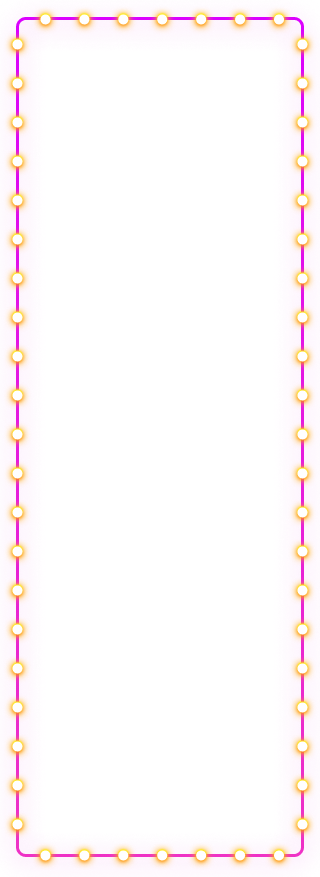
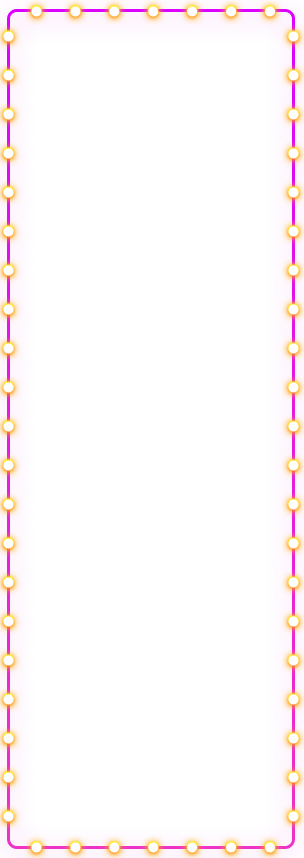
mobile adaptive

Changed region(s): [[0.0, 0.0, 1.0, 1.0]]

diff --git a/style/style.min.css b/style/style.min.css
@@ -1,1 +1,1 @@
-*,*::before,*::after{-webkit-box-sizing:border-box;box-sizing:border-box;margin:0;padding:0;position:relative;scroll-behavior:smooth}ul{list-style:none}a,a:visited{text-decoration:none;color:#fff}body{line-height:1.2;font-family:'Montserrat';font-style:normal;font-weight:400;text-rendering:optimizeLegibility;-webkit-font-smoothing:antialiased;-moz-osx-font-smoothing:grayscale;overflow-x:hidden;background-color:#141351}.container{margin:0 auto;padding:0 30px;max-width:1160px}.section{width:100%;position:relative}.btn{-webkit-appearance:none;-moz-appearance:none;appearance:none;border:none;display:block;cursor:pointer;text-align:center;display:-webkit-box;display:-ms-flexbox;display:flex;-webkit-box-align:center;-ms-flex-align:center;align-items:center;-webkit-box-pack:center;-ms-flex-pack:center;justify-content:center}.d-none{display:none !important}.no-events{pointer-events:none}.overflow-hidden{overflow:hidden}@media screen and (max-width: 425px){.container{padding:0 17px}}.baner{background:url("../img/baner-bg.jpg") no-repeat;background-position-x:center;background-size:cover;padding-bottom:60px;min-height:100vh;display:-webkit-box;display:-ms-flexbox;display:flex;-webkit-box-align:center;-ms-flex-align:center;align-items:center;padding:100px 0 40px}.baner__hero{display:-webkit-box;display:-ms-flexbox;display:flex;-webkit-box-pack:justify;-ms-flex-pack:justify;justify-content:space-between;-webkit-box-align:center;-ms-flex-align:center;align-items:center}.baner__content{margin-right:30px;z-index:2}.baner__text{font-weight:500;font-size:20px;line-height:120%;letter-spacing:0.01em;color:rgba(255,255,255,0.9);margin-bottom:20px}.baner__title{font-weight:800;font-size:90px;line-height:100%;letter-spacing:-0.01em;text-transform:uppercase;color:#FFFFFF;text-shadow:0px 1px 11px #FFA200, 0px 0px 8px #FFC000, 0px -1px 2px #FFFA00, 0px 1px 4px #FF8700;margin-bottom:20px}.baner__subtitle{font-weight:700;font-size:24px;line-height:120%;letter-spacing:0.01em;color:#FFFFFF;margin-bottom:34px}.baner::after{content:'';position:absolute;bottom:0;left:0;right:0;width:100%;height:600px;background:-webkit-gradient(linear, left top, left bottom, color-stop(37.92%, rgba(20,19,81,0)), to(#141351));background:linear-gradient(180deg, rgba(20,19,81,0) 37.92%, #141351 100%);z-index:1;pointer-events:none}@media screen and (max-width: 1300px){.baner__title{font-size:60px}.baner__subtitle{font-size:20px}.baner__text{font-size:18px}.baner__content{max-width:460px}}@media screen and (max-width: 860px){.baner__title{font-size:52px}.baner__subtitle{font-size:18px}.baner__text{font-size:16px}.baner__content{max-width:460px;margin-right:15px}}@media screen and (max-width: 760px){.baner__title{font-size:42px;margin-bottom:15px}.baner__subtitle{font-size:16px}.baner__text{font-size:14px;margin-bottom:15px}.baner__content{max-width:460px;margin-right:15px}}@media screen and (max-width: 600px){.baner{background:url("../img/baner-mobile-bg.jpg") no-repeat;background-position-x:center;background-size:100% 100%}.baner__hero{-webkit-box-orient:vertical;-webkit-box-direction:normal;-ms-flex-direction:column;flex-direction:column}.baner__title{text-align:center}.baner__subtitle{text-align:center;margin-bottom:12px}.baner__text{text-align:center}.baner__content{margin-right:0}}@media screen and (max-width: 425px){.baner__title{font-size:40px}}.prizes__title{font-weight:800;font-size:48px;line-height:110%;text-align:center;letter-spacing:-0.03em;text-transform:uppercase;color:#FFFFFF;text-shadow:0px 1px 11px #FFA200, 0px 1px 4px #FF8700;margin:0 auto;margin-bottom:60px;max-width:660px}.prizes__hero{width:100%;background:url("../img/frame-desktop.png") no-repeat;background-size:100% 100%;padding:45px 20px 0px;margin-bottom:120px}.prizes__list{display:-webkit-box;display:-ms-flexbox;display:flex;-webkit-box-align:stretch;-ms-flex-align:stretch;align-items:stretch;-webkit-box-pack:start;-ms-flex-pack:start;justify-content:flex-start;-ms-flex-wrap:wrap;flex-wrap:wrap}.prizes__item{-ms-flex-preferred-size:25%;flex-basis:25%;padding:0 10px;margin-bottom:40px}.prizes__item.today .prizes__date::before{content:'';background:-webkit-gradient(linear, left bottom, left top, from(rgba(235,0,183,0.8)), to(#DB00FF)),#C937FF;background:linear-gradient(360deg, rgba(235,0,183,0.8) 0%, #DB00FF 100%),#C937FF;-webkit-box-shadow:0px 4px 14px -1px #DA77FF;box-shadow:0px 4px 14px -1px #DA77FF;border-radius:4px 4px 0px 0px;position:absolute;top:0;left:0;right:0;height:4px}.prizes__item.active .prizes__btn{opacity:1}.prizes__item.active .prizes__img{opacity:1;-webkit-filter:grayscale(0);filter:grayscale(0)}.prizes__date{position:relative;background:-webkit-gradient(linear, left top, left bottom, color-stop(2.6%, rgba(112,42,144,0.224)), to(rgba(15,1,98,0.2905)));background:linear-gradient(180deg, rgba(112,42,144,0.224) 2.6%, rgba(15,1,98,0.2905) 100%);border:1px solid rgba(255,255,255,0.05);-webkit-backdrop-filter:blur(13.5914px);backdrop-filter:blur(13.5914px);border-radius:8px;margin-bottom:10px;color:#fff;display:-webkit-box;display:-ms-flexbox;display:flex;-webkit-box-align:center;-ms-flex-align:center;align-items:center;-webkit-box-pack:center;-ms-flex-pack:center;justify-content:center;font-weight:800;font-size:20px;line-height:120%;letter-spacing:0.01em;text-transform:uppercase;padding:24px 12px 17px}.prizes__card{padding:15px 15px 35px;background:-webkit-gradient(linear, left top, left bottom, color-stop(2.6%, rgba(112,42,144,0.224)), to(rgba(15,1,98,0.2905)));background:linear-gradient(180deg, rgba(112,42,144,0.224) 2.6%, rgba(15,1,98,0.2905) 100%);border:1px solid rgba(255,255,255,0.05);-webkit-backdrop-filter:blur(13.5914px);backdrop-filter:blur(13.5914px);border-radius:8px}.prizes__day-num{font-weight:600;font-size:12px;line-height:167%;text-align:center;color:#FFFFFF;margin-bottom:25px}.prizes__img{width:105px;margin:0 auto;display:block;margin-bottom:33px;opacity:0.4;-webkit-filter:grayscale(1);filter:grayscale(1)}.prizes__btn{background:#EB4846;border-radius:5px;padding:7.5px 12px;font-weight:700;font-size:14px;line-height:171%;display:-webkit-box;display:-ms-flexbox;display:flex;-webkit-box-align:center;-ms-flex-align:center;align-items:center;text-align:center;letter-spacing:0.01em;color:#FFFFFF;margin:0 auto;-webkit-transition:background .3s ease;transition:background .3s ease;opacity:0.4;width:154px}.prizes__btn:hover{background:#e51b19}.terms{max-width:730px;margin-bottom:100px}.terms__title{font-weight:700;font-size:24px;line-height:140%;color:#fff;margin-bottom:20px}.terms__text{font-weight:400;font-size:16px;line-height:140%;text-align:justify;color:rgba(255,255,255,0.75)}.terms__list{padding-left:22px;margin-top:20px}.terms__item{color:rgba(255,255,255,0.75);margin-bottom:16px}.terms__item::before{content:'';position:absolute;width:2px;height:2px;background:rgba(255,255,255,0.75);top:8px;left:-12px;border-radius:50%}@media screen and (max-width: 960px){.prizes__item{-ms-flex-preferred-size:33%;flex-basis:33%}}@media screen and (max-width: 860px){.prizes__title{font-size:42px;max-width:590px}}@media screen and (max-width: 768px){.prizes__item{-ms-flex-preferred-size:50%;flex-basis:50%}.prizes__hero{margin-bottom:100px}}@media screen and (max-width: 600px){.prizes__hero{margin-bottom:80px}.prizes__item{-ms-flex-preferred-size:50%;flex-basis:50%;padding:0 4px;margin-bottom:16px}.prizes__day-num{margin-bottom:10px}.prizes__img{width:80px;margin-bottom:24px}.prizes__card{padding:12px}.prizes__title{font-size:36px;max-width:500px;margin-bottom:40px}.terms__text{font-size:14px}.terms__title{font-size:20px}.terms__list{margin-top:16px}.terms__item{margin-bottom:12px}}@media screen and (max-width: 480px){.prizes__hero{padding:32px 12px 0px}.prizes__date{padding:10px;font-size:14px;margin-bottom:5px}.prizes__btn{font-size:10px;width:100%}}@media screen and (max-width: 425px){.prizes__img{width:58px;margin-bottom:14px}.prizes__card{padding:10px}.prizes__title{font-size:30px;margin-bottom:30px}.prizes__hero{margin-bottom:60px}}.spinner{position:relative;min-width:560px;height:560px;display:-webkit-box;display:-ms-flexbox;display:flex;-webkit-box-pack:center;-ms-flex-pack:center;justify-content:center;-webkit-box-align:center;-ms-flex-align:center;align-items:center;z-index:2}.spinner__bg{position:absolute;width:100%;height:100%}.spinner__hero{width:465px;height:465px;-webkit-transition:-webkit-transform 2s ease-in-out 0s;transition:-webkit-transform 2s ease-in-out 0s;transition:transform 2s ease-in-out 0s;transition:transform 2s ease-in-out 0s, -webkit-transform 2s ease-in-out 0s;-webkit-transform:rotate(0deg);transform:rotate(0deg);cursor:pointer}.spinner__pointer{position:absolute;top:21px;left:50%;-webkit-transform:translate(-40%, 0);transform:translate(-40%, 0);width:55px}.spinner__btn-wrap{position:absolute;top:50%;left:50%;-webkit-transform:translate(-50%, -50%);transform:translate(-50%, -50%)}.spinner__btn{background:url("../img/wheel/btn.png") no-repeat;background-size:100% 100%;width:96px;height:96px;border-radius:50%}#spinner.spinning .spinner__hero{-webkit-transform:rotate(60deg);transform:rotate(60deg)}@media screen and (max-width: 1300px){.spinner{width:400px;min-width:400px;height:400px}.spinner__hero{width:335px;height:335px}.spinner__btn{width:76px;height:76px}.spinner__pointer{width:45px;top:13px}}@media screen and (max-width: 860px){.spinner{width:360px;min-width:360px;height:360px}.spinner__hero{width:300px;height:300px}.spinner__btn{width:76px;height:76px}.spinner__pointer{width:36px}}@media screen and (max-width: 760px){.spinner{width:300px;min-width:300px;height:300px}.spinner__hero{width:250px;height:250px}.spinner__btn{width:50px;height:50px}.spinner__pointer{width:26px}}@media screen and (max-width: 650px){.spinner{width:260px;min-width:260px;height:260px}.spinner__hero{width:215px;height:215px}.spinner__btn{width:50px;height:50px}.spinner__pointer{width:26px;top:9px}}@media screen and (max-width: 600px){.spinner{width:285px;min-width:285px;height:285px}.spinner__hero{width:237px;height:237px}.spinner__btn{width:60px;height:60px}.spinner__pointer{width:26px;top:9px}}.select{position:relative;cursor:pointer;display:-webkit-box;display:-ms-flexbox;display:flex;-webkit-box-align:center;-ms-flex-align:center;align-items:center;-webkit-box-pack:center;-ms-flex-pack:center;justify-content:center;background:rgba(247,243,255,0.1);border:1px solid rgba(255,255,255,0.1);-webkit-backdrop-filter:blur(15px);backdrop-filter:blur(15px);border-radius:5px;padding:8px 16px;max-width:230px;z-index:5}.select__val{color:#fff;font-weight:700;font-size:14px;line-height:171%;letter-spacing:0.01em;text-align:center}.select__icon{margin-left:12px;-webkit-transform:rotate(0deg);transform:rotate(0deg);-webkit-transition:-webkit-transform .3s ease;transition:-webkit-transform .3s ease;transition:transform .3s ease;transition:transform .3s ease, -webkit-transform .3s ease}.select__list{position:absolute;top:105%;left:0;right:0;border-radius:5px;background:rgba(247,243,255,0.1);border:1px solid rgba(255,255,255,0.1);-webkit-backdrop-filter:blur(15px);backdrop-filter:blur(15px);z-index:2;-webkit-transform:translateY(-5px);transform:translateY(-5px);opacity:0;pointer-events:none;-webkit-transition:opacity .3s ease, -webkit-transform .3s ease;transition:opacity .3s ease, -webkit-transform .3s ease;transition:opacity .3s ease, transform .3s ease;transition:opacity .3s ease, transform .3s ease, -webkit-transform .3s ease}.select__list li{padding:8px 5px 8px 14px;cursor:pointer;color:#fff;-webkit-transition:color .2s ease;transition:color .2s ease}.select__list li:hover{color:#fff}.select.opened .select__list{-webkit-transform:translateY(0px);transform:translateY(0px);opacity:1;pointer-events:all}.select.opened .select__icon{-webkit-transform:rotate(180deg);transform:rotate(180deg)}.select-mobile{display:none}@media screen and (max-width: 600px){.select-desctop{display:none}.select-mobile{display:-webkit-box;display:-ms-flexbox;display:flex;z-index:2;margin-top:12px}}.modal{position:fixed;top:0;bottom:0;left:0;right:0;background:rgba(5,0,20,0.5);-webkit-backdrop-filter:blur(2px);backdrop-filter:blur(2px);z-index:100;display:none;opacity:0;-webkit-transition:opacity .3s ease;transition:opacity .3s ease;padding:30px;overflow-x:hidden}.modal.displayed{display:block}.modal.visible{opacity:1}.modal__container{min-height:100%;max-width:785px;display:-webkit-box;display:-ms-flexbox;display:flex;-webkit-box-pack:center;-ms-flex-pack:center;justify-content:center;-webkit-box-align:center;-ms-flex-align:center;align-items:center;margin:0 auto;position:relative}.modal__hero{width:100%;height:420px;padding:40px 55px;display:-webkit-box;display:-ms-flexbox;display:flex;-webkit-box-orient:vertical;-webkit-box-direction:normal;-ms-flex-direction:column;flex-direction:column;-webkit-box-pack:start;-ms-flex-pack:start;justify-content:flex-start;position:relative}.modal__hero::after{content:'';position:absolute;pointer-events:none;width:100%;height:100%;background:url("../img/wheel-popup-desktop.png") no-repeat;background-size:100% 100%;top:0;left:0}.modal__hero.prizes::after{background:url("../img/popup-desktop.png") no-repeat;background-size:100% 100%}.modal__content{background:rgba(16,13,63,0.5);-webkit-backdrop-filter:blur(22px);backdrop-filter:blur(22px);border-radius:28px;height:100%;width:100%;display:-webkit-box;display:-ms-flexbox;display:flex;-webkit-box-orient:vertical;-webkit-box-direction:normal;-ms-flex-direction:column;flex-direction:column;-webkit-box-align:center;-ms-flex-align:center;align-items:center;-webkit-box-pack:center;-ms-flex-pack:center;justify-content:center}.modal__close{position:absolute;right:30px;top:0;cursor:pointer}.modal__close path{-webkit-transition:all .2s ease;transition:all .2s ease}.modal__close:hover path{stroke-opacity:1}.modal__head-text{font-weight:600;font-size:16px;line-height:120%;text-align:center;color:#FFFFFF;margin-bottom:5px}.modal__big-title{font-weight:800;font-size:34px;line-height:120%;text-align:center;letter-spacing:-0.03em;color:#FFFFFF;text-shadow:0px 1px 12px #FFA200;margin-bottom:70px;max-width:412px}.modal__title{font-weight:800;font-size:24px;line-height:120%;text-align:center;letter-spacing:-0.03em;color:#FFFFFF;text-shadow:0px 1px 12px #FFA200;margin-bottom:30px}.modal__descr{font-weight:500;font-size:20px;line-height:140%;text-align:center;letter-spacing:0.01em;color:#FFFFFF;margin-bottom:40px;max-width:465px}.modal__btn{display:-webkit-box;display:-ms-flexbox;display:flex;-webkit-box-pack:center;-ms-flex-pack:center;justify-content:center;-webkit-box-align:center;-ms-flex-align:center;align-items:center;padding:7px 39px 8px;min-width:128px;background:#EB4846;border-radius:5px;font-weight:700;font-size:14px;line-height:171%;letter-spacing:0.01em;color:#FFFFFF;-webkit-transition:background .3s ease;transition:background .3s ease}.modal__btn:hover{background:#e51b19}
+*,*::before,*::after{-webkit-box-sizing:border-box;box-sizing:border-box;margin:0;padding:0;position:relative;scroll-behavior:smooth}ul{list-style:none}a,a:visited{text-decoration:none;color:#fff}body{line-height:1.2;font-family:'Montserrat';font-style:normal;font-weight:400;text-rendering:optimizeLegibility;-webkit-font-smoothing:antialiased;-moz-osx-font-smoothing:grayscale;overflow-x:hidden;background-color:#141351}.container{margin:0 auto;padding:0 30px;max-width:1160px}.section{width:100%;position:relative}.btn{-webkit-appearance:none;-moz-appearance:none;appearance:none;border:none;display:block;cursor:pointer;text-align:center;display:-webkit-box;display:-ms-flexbox;display:flex;-webkit-box-align:center;-ms-flex-align:center;align-items:center;-webkit-box-pack:center;-ms-flex-pack:center;justify-content:center}.d-none{display:none !important}.no-events{pointer-events:none}.overflow-hidden{overflow:hidden}@media screen and (max-width: 425px){.container{padding:0 17px}}.baner{background:url("../img/baner-bg.jpg") no-repeat;background-position-x:center;background-size:cover;padding-bottom:60px;min-height:100vh;display:-webkit-box;display:-ms-flexbox;display:flex;-webkit-box-align:center;-ms-flex-align:center;align-items:center;padding:100px 0 40px}.baner__hero{display:-webkit-box;display:-ms-flexbox;display:flex;-webkit-box-pack:justify;-ms-flex-pack:justify;justify-content:space-between;-webkit-box-align:center;-ms-flex-align:center;align-items:center}.baner__content{margin-right:30px;z-index:2}.baner__text{font-weight:500;font-size:20px;line-height:120%;letter-spacing:0.01em;color:rgba(255,255,255,0.9);margin-bottom:20px}.baner__title{font-weight:800;font-size:90px;line-height:100%;letter-spacing:-0.01em;text-transform:uppercase;color:#FFFFFF;text-shadow:0px 1px 11px #FFA200, 0px 0px 8px #FFC000, 0px -1px 2px #FFFA00, 0px 1px 4px #FF8700;margin-bottom:20px}.baner__subtitle{font-weight:700;font-size:24px;line-height:120%;letter-spacing:0.01em;color:#FFFFFF;margin-bottom:34px}.baner::after{content:'';position:absolute;bottom:0;left:0;right:0;width:100%;height:600px;background:-webkit-gradient(linear, left top, left bottom, color-stop(37.92%, rgba(20,19,81,0)), to(#141351));background:linear-gradient(180deg, rgba(20,19,81,0) 37.92%, #141351 100%);z-index:1;pointer-events:none}@media screen and (max-width: 1300px){.baner__title{font-size:60px}.baner__subtitle{font-size:20px}.baner__text{font-size:18px}.baner__content{max-width:460px}}@media screen and (max-width: 860px){.baner__title{font-size:52px}.baner__subtitle{font-size:18px}.baner__text{font-size:16px}.baner__content{max-width:460px;margin-right:15px}}@media screen and (max-width: 760px){.baner__title{font-size:42px;margin-bottom:15px}.baner__subtitle{font-size:16px}.baner__text{font-size:14px;margin-bottom:15px}.baner__content{max-width:460px;margin-right:15px}}@media screen and (max-width: 600px){.baner{background:url("../img/baner-mobile-bg.jpg") no-repeat;background-position-x:center;background-size:100% 100%}.baner__hero{-webkit-box-orient:vertical;-webkit-box-direction:normal;-ms-flex-direction:column;flex-direction:column}.baner__title{text-align:center}.baner__subtitle{text-align:center;margin-bottom:12px}.baner__text{text-align:center}.baner__content{margin-right:0}}@media screen and (max-width: 425px){.baner__title{font-size:40px}}.prizes__title{font-weight:800;font-size:48px;line-height:110%;text-align:center;letter-spacing:-0.03em;text-transform:uppercase;color:#FFFFFF;text-shadow:0px 1px 11px #FFA200, 0px 1px 4px #FF8700;margin:0 auto;margin-bottom:60px;max-width:660px}.prizes__hero{width:100%;background:url("../img/frame-desktop.png") no-repeat;background-size:100% 100%;padding:45px 20px 0px;margin-bottom:120px}.prizes__list{display:-webkit-box;display:-ms-flexbox;display:flex;-webkit-box-align:stretch;-ms-flex-align:stretch;align-items:stretch;-webkit-box-pack:start;-ms-flex-pack:start;justify-content:flex-start;-ms-flex-wrap:wrap;flex-wrap:wrap}.prizes__item{-ms-flex-preferred-size:25%;flex-basis:25%;padding:0 10px;margin-bottom:40px}.prizes__item.today .prizes__date::before{content:'';background:-webkit-gradient(linear, left bottom, left top, from(rgba(235,0,183,0.8)), to(#DB00FF)),#C937FF;background:linear-gradient(360deg, rgba(235,0,183,0.8) 0%, #DB00FF 100%),#C937FF;-webkit-box-shadow:0px 4px 14px -1px #DA77FF;box-shadow:0px 4px 14px -1px #DA77FF;border-radius:4px 4px 0px 0px;position:absolute;top:0;left:0;right:0;height:4px}.prizes__item.active .prizes__btn{opacity:1}.prizes__item.active .prizes__img{opacity:1;-webkit-filter:grayscale(0);filter:grayscale(0)}.prizes__date{position:relative;background:-webkit-gradient(linear, left top, left bottom, color-stop(2.6%, rgba(112,42,144,0.224)), to(rgba(15,1,98,0.2905)));background:linear-gradient(180deg, rgba(112,42,144,0.224) 2.6%, rgba(15,1,98,0.2905) 100%);border:1px solid rgba(255,255,255,0.05);-webkit-backdrop-filter:blur(13.5914px);backdrop-filter:blur(13.5914px);border-radius:8px;margin-bottom:10px;color:#fff;display:-webkit-box;display:-ms-flexbox;display:flex;-webkit-box-align:center;-ms-flex-align:center;align-items:center;-webkit-box-pack:center;-ms-flex-pack:center;justify-content:center;font-weight:800;font-size:20px;line-height:120%;letter-spacing:0.01em;text-transform:uppercase;padding:24px 12px 17px}.prizes__card{padding:15px 15px 35px;background:-webkit-gradient(linear, left top, left bottom, color-stop(2.6%, rgba(112,42,144,0.224)), to(rgba(15,1,98,0.2905)));background:linear-gradient(180deg, rgba(112,42,144,0.224) 2.6%, rgba(15,1,98,0.2905) 100%);border:1px solid rgba(255,255,255,0.05);-webkit-backdrop-filter:blur(13.5914px);backdrop-filter:blur(13.5914px);border-radius:8px}.prizes__day-num{font-weight:600;font-size:12px;line-height:167%;text-align:center;color:#FFFFFF;margin-bottom:25px}.prizes__img{width:105px;margin:0 auto;display:block;margin-bottom:33px;opacity:0.4;-webkit-filter:grayscale(1);filter:grayscale(1)}.prizes__btn{background:#EB4846;border-radius:5px;padding:7.5px 12px;font-weight:700;font-size:14px;line-height:171%;display:-webkit-box;display:-ms-flexbox;display:flex;-webkit-box-align:center;-ms-flex-align:center;align-items:center;text-align:center;letter-spacing:0.01em;color:#FFFFFF;margin:0 auto;-webkit-transition:background .3s ease;transition:background .3s ease;opacity:0.4;width:154px}.prizes__btn:hover{background:#e51b19}.terms{max-width:730px;margin-bottom:100px}.terms__title{font-weight:700;font-size:24px;line-height:140%;color:#fff;margin-bottom:20px}.terms__text{font-weight:400;font-size:16px;line-height:140%;text-align:justify;color:rgba(255,255,255,0.75)}.terms__list{padding-left:22px;margin-top:20px}.terms__item{color:rgba(255,255,255,0.75);margin-bottom:16px}.terms__item::before{content:'';position:absolute;width:2px;height:2px;background:rgba(255,255,255,0.75);top:8px;left:-12px;border-radius:50%}@media screen and (max-width: 960px){.prizes__item{-ms-flex-preferred-size:33%;flex-basis:33%}}@media screen and (max-width: 860px){.prizes__title{font-size:42px;max-width:590px}}@media screen and (max-width: 768px){.prizes__item{-ms-flex-preferred-size:50%;flex-basis:50%}.prizes__hero{margin-bottom:100px;background:url("../img/frame-mobile.png") no-repeat;background-size:100% 100%}}@media screen and (max-width: 600px){.prizes__hero{margin-bottom:80px}.prizes__item{-ms-flex-preferred-size:50%;flex-basis:50%;padding:0 4px;margin-bottom:16px}.prizes__day-num{margin-bottom:10px}.prizes__img{width:80px;margin-bottom:24px}.prizes__card{padding:12px}.prizes__title{font-size:36px;max-width:500px;margin-bottom:40px}.terms__text{font-size:14px}.terms__title{font-size:20px}.terms__list{margin-top:16px}.terms__item{margin-bottom:12px}}@media screen and (max-width: 480px){.prizes__hero{padding:32px 12px 0px}.prizes__date{padding:10px;font-size:14px;margin-bottom:5px}.prizes__btn{font-size:10px;width:100%}}@media screen and (max-width: 425px){.prizes__img{width:58px;margin-bottom:14px}.prizes__card{padding:10px}.prizes__title{font-size:30px;margin-bottom:30px}.prizes__hero{margin-bottom:60px}}.spinner{position:relative;min-width:560px;height:560px;display:-webkit-box;display:-ms-flexbox;display:flex;-webkit-box-pack:center;-ms-flex-pack:center;justify-content:center;-webkit-box-align:center;-ms-flex-align:center;align-items:center;z-index:2}.spinner__bg{position:absolute;width:100%;height:100%}.spinner__hero{width:465px;height:465px;-webkit-transition:-webkit-transform 2s ease-in-out 0s;transition:-webkit-transform 2s ease-in-out 0s;transition:transform 2s ease-in-out 0s;transition:transform 2s ease-in-out 0s, -webkit-transform 2s ease-in-out 0s;-webkit-transform:rotate(0deg);transform:rotate(0deg);cursor:pointer}.spinner__pointer{position:absolute;top:21px;left:50%;-webkit-transform:translate(-40%, 0);transform:translate(-40%, 0);width:55px}.spinner__btn-wrap{position:absolute;top:50%;left:50%;-webkit-transform:translate(-50%, -50%);transform:translate(-50%, -50%)}.spinner__btn{background:url("../img/wheel/btn.png") no-repeat;background-size:100% 100%;width:96px;height:96px;border-radius:50%}#spinner.spinning .spinner__hero{-webkit-transform:rotate(60deg);transform:rotate(60deg)}@media screen and (max-width: 1300px){.spinner{width:400px;min-width:400px;height:400px}.spinner__hero{width:335px;height:335px}.spinner__btn{width:76px;height:76px}.spinner__pointer{width:45px;top:13px}}@media screen and (max-width: 860px){.spinner{width:360px;min-width:360px;height:360px}.spinner__hero{width:300px;height:300px}.spinner__btn{width:76px;height:76px}.spinner__pointer{width:36px}}@media screen and (max-width: 760px){.spinner{width:300px;min-width:300px;height:300px}.spinner__hero{width:250px;height:250px}.spinner__btn{width:50px;height:50px}.spinner__pointer{width:26px}}@media screen and (max-width: 650px){.spinner{width:260px;min-width:260px;height:260px}.spinner__hero{width:215px;height:215px}.spinner__btn{width:50px;height:50px}.spinner__pointer{width:26px;top:9px}}@media screen and (max-width: 600px){.spinner{width:285px;min-width:285px;height:285px}.spinner__hero{width:237px;height:237px}.spinner__btn{width:60px;height:60px}.spinner__pointer{width:26px;top:9px}}.select{position:relative;cursor:pointer;display:-webkit-box;display:-ms-flexbox;display:flex;-webkit-box-align:center;-ms-flex-align:center;align-items:center;-webkit-box-pack:center;-ms-flex-pack:center;justify-content:center;background:rgba(247,243,255,0.1);border:1px solid rgba(255,255,255,0.1);-webkit-backdrop-filter:blur(15px);backdrop-filter:blur(15px);border-radius:5px;padding:8px 16px;max-width:230px;z-index:5}.select__val{color:#fff;font-weight:700;font-size:14px;line-height:171%;letter-spacing:0.01em;text-align:center}.select__icon{margin-left:12px;-webkit-transform:rotate(0deg);transform:rotate(0deg);-webkit-transition:-webkit-transform .3s ease;transition:-webkit-transform .3s ease;transition:transform .3s ease;transition:transform .3s ease, -webkit-transform .3s ease}.select__list{position:absolute;top:105%;left:0;right:0;border-radius:5px;background:rgba(247,243,255,0.1);border:1px solid rgba(255,255,255,0.1);-webkit-backdrop-filter:blur(15px);backdrop-filter:blur(15px);z-index:2;-webkit-transform:translateY(-5px);transform:translateY(-5px);opacity:0;pointer-events:none;-webkit-transition:opacity .3s ease, -webkit-transform .3s ease;transition:opacity .3s ease, -webkit-transform .3s ease;transition:opacity .3s ease, transform .3s ease;transition:opacity .3s ease, transform .3s ease, -webkit-transform .3s ease}.select__list li{padding:8px 5px 8px 14px;cursor:pointer;color:#fff;-webkit-transition:color .2s ease;transition:color .2s ease}.select__list li:hover{color:#fff}.select.opened .select__list{-webkit-transform:translateY(0px);transform:translateY(0px);opacity:1;pointer-events:all}.select.opened .select__icon{-webkit-transform:rotate(180deg);transform:rotate(180deg)}.select-mobile{display:none}@media screen and (max-width: 600px){.select-desctop{display:none}.select-mobile{display:-webkit-box;display:-ms-flexbox;display:flex;z-index:2;margin-top:12px}}.modal{position:fixed;top:0;bottom:0;left:0;right:0;background:rgba(5,0,20,0.5);-webkit-backdrop-filter:blur(2px);backdrop-filter:blur(2px);z-index:100;display:none;opacity:0;-webkit-transition:opacity .3s ease;transition:opacity .3s ease;padding:30px 0;overflow-x:hidden}.modal.displayed{display:block}.modal.visible{opacity:1}.modal__container{min-height:100%;max-width:785px;display:-webkit-box;display:-ms-flexbox;display:flex;-webkit-box-pack:center;-ms-flex-pack:center;justify-content:center;-webkit-box-align:center;-ms-flex-align:center;align-items:center;margin:0 auto;position:relative}.modal__hero{width:100%;height:420px;padding:40px 55px;display:-webkit-box;display:-ms-flexbox;display:flex;-webkit-box-orient:vertical;-webkit-box-direction:normal;-ms-flex-direction:column;flex-direction:column;-webkit-box-pack:start;-ms-flex-pack:start;justify-content:flex-start;position:relative}.modal__hero::after{content:'';position:absolute;pointer-events:none;width:100%;height:100%;background:url("../img/wheel-popup-desktop.png") no-repeat;background-size:100% 100%;top:0;left:0}.modal__hero.prizes::after{background:url("../img/popup-desktop.png") no-repeat;background-size:100% 100%}.modal__content{background:rgba(16,13,63,0.5);-webkit-backdrop-filter:blur(22px);backdrop-filter:blur(22px);border-radius:28px;height:100%;width:100%;display:-webkit-box;display:-ms-flexbox;display:flex;-webkit-box-orient:vertical;-webkit-box-direction:normal;-ms-flex-direction:column;flex-direction:column;-webkit-box-align:center;-ms-flex-align:center;align-items:center;-webkit-box-pack:center;-ms-flex-pack:center;justify-content:center;padding:0 24px}.modal__close{position:absolute;right:30px;top:0;cursor:pointer}.modal__close path{-webkit-transition:all .2s ease;transition:all .2s ease}.modal__close:hover path{stroke-opacity:1}.modal__head-text{font-weight:600;font-size:16px;line-height:120%;text-align:center;color:#FFFFFF;margin-bottom:5px}.modal__big-title{font-weight:800;font-size:34px;line-height:120%;text-align:center;letter-spacing:-0.03em;color:#FFFFFF;text-shadow:0px 1px 12px #FFA200;margin-bottom:70px;max-width:412px}.modal__title{font-weight:800;font-size:24px;line-height:120%;text-align:center;letter-spacing:-0.03em;color:#FFFFFF;text-shadow:0px 1px 12px #FFA200;margin-bottom:30px}.modal__descr{font-weight:500;font-size:20px;line-height:140%;text-align:center;letter-spacing:0.01em;color:#FFFFFF;margin-bottom:40px;max-width:465px}.modal__btn{display:-webkit-box;display:-ms-flexbox;display:flex;-webkit-box-pack:center;-ms-flex-pack:center;justify-content:center;-webkit-box-align:center;-ms-flex-align:center;align-items:center;padding:7px 39px 8px;min-width:128px;background:#EB4846;border-radius:5px;font-weight:700;font-size:14px;line-height:171%;letter-spacing:0.01em;color:#FFFFFF;-webkit-transition:background .3s ease;transition:background .3s ease}.modal__btn:hover{background:#e51b19}@media screen and (max-width: 830px){.modal__hero{padding:40px 50px}}@media screen and (max-width: 768px){.modal__hero{padding:40px}.modal__big-title{font-size:30px;max-width:380px}}@media screen and (max-width: 600px){.modal__hero{height:540px;width:400px}.modal__hero::after{background:url("../img/wheel-popup-mobile.png") no-repeat;background-size:100% 100%}.modal__hero.prizes::after{background:url("../img/popup-mobile.png") no-repeat;background-size:100% 100%}.modal__big-title{font-size:30px;max-width:300px}.modal__descr{font-size:16px}.modal__title{font-size:20px}}@media screen and (max-width: 425px){.modal__container{padding:0}.modal__head-text{font-size:14px}.modal__big-title{font-size:26px;max-width:220px}.modal__hero{padding:40px 30px}.modal__content{padding:0 30px}.modal__descr{font-size:14px}}@media screen and (max-width: 375px){.modal__big-title{font-size:20px;max-width:165px}.modal__content{padding:0 24px}}

diff --git a/sass/_modal.sass b/sass/_modal.sass
@@ -10,7 +10,7 @@
     display: none
     opacity: 0
     transition: opacity .3s ease
-    padding: 30px
+    padding: 30px 0
     overflow-x: hidden
     &.displayed
         display: block
@@ -56,6 +56,7 @@
         flex-direction: column
         align-items: center
         justify-content: center
+        padding: 0 24px
     &__close
         position: absolute
         right: 30px
@@ -118,3 +119,59 @@
         &:hover
             background: darken(#EB4846, 10%)
         
+@media screen and (max-width: 830px)
+    .modal
+        &__hero
+            padding: 40px 50px
+
+@media screen and (max-width: 768px)
+    .modal
+        &__hero
+            padding: 40px
+        &__big-title
+            font-size: 30px
+            max-width: 380px
+
+@media screen and (max-width: 600px)
+    .modal
+        &__hero
+            height: 540px
+            width: 400px
+            &::after
+                background: url('../img/wheel-popup-mobile.png') no-repeat
+                background-size: 100% 100%
+            &.prizes
+                &::after
+                    background: url('../img/popup-mobile.png') no-repeat
+                    background-size: 100% 100%
+        &__big-title
+            font-size: 30px
+            max-width: 300px
+        &__descr
+            font-size: 16px
+        &__title
+            font-size: 20px
+
+@media screen and (max-width: 425px)
+    .modal
+        &__container
+            padding: 0
+        &__head-text
+            font-size: 14px
+        &__big-title
+            font-size: 26px
+            max-width: 220px
+        &__hero
+            padding: 40px 30px
+        &__content
+            padding: 0 30px
+        &__descr
+            font-size: 14px
+
+@media screen and (max-width: 375px)
+    .modal
+        &__big-title
+            font-size: 20px
+            max-width: 165px
+        &__content
+            padding: 0 24px

diff --git a/style/style.css b/style/style.css
@@ -448,6 +448,8 @@ body {
   }
   .prizes__hero {
     margin-bottom: 100px;
+    background: url("../img/frame-mobile.png") no-repeat;
+    background-size: 100% 100%;
   }
 }
 
@@ -801,7 +803,7 @@ body {
   opacity: 0;
   -webkit-transition: opacity .3s ease;
   transition: opacity .3s ease;
-  padding: 30px;
+  padding: 30px 0;
   overflow-x: hidden;
 }
 
@@ -883,6 +885,7 @@ body {
   -webkit-box-pack: center;
       -ms-flex-pack: center;
           justify-content: center;
+  padding: 0 24px;
 }
 
 .modal__close {
@@ -969,4 +972,77 @@ body {
 
 .modal__btn:hover {
   background: #e51b19;
+}
+
+@media screen and (max-width: 830px) {
+  .modal__hero {
+    padding: 40px 50px;
+  }
+}
+
+@media screen and (max-width: 768px) {
+  .modal__hero {
+    padding: 40px;
+  }
+  .modal__big-title {
+    font-size: 30px;
+    max-width: 380px;
+  }
+}
+
+@media screen and (max-width: 600px) {
+  .modal__hero {
+    height: 540px;
+    width: 400px;
+  }
+  .modal__hero::after {
+    background: url("../img/wheel-popup-mobile.png") no-repeat;
+    background-size: 100% 100%;
+  }
+  .modal__hero.prizes::after {
+    background: url("../img/popup-mobile.png") no-repeat;
+    background-size: 100% 100%;
+  }
+  .modal__big-title {
+    font-size: 30px;
+    max-width: 300px;
+  }
+  .modal__descr {
+    font-size: 16px;
+  }
+  .modal__title {
+    font-size: 20px;
+  }
+}
+
+@media screen and (max-width: 425px) {
+  .modal__container {
+    padding: 0;
+  }
+  .modal__head-text {
+    font-size: 14px;
+  }
+  .modal__big-title {
+    font-size: 26px;
+    max-width: 220px;
+  }
+  .modal__hero {
+    padding: 40px 30px;
+  }
+  .modal__content {
+    padding: 0 30px;
+  }
+  .modal__descr {
+    font-size: 14px;
+  }
+}
+
+@media screen and (max-width: 375px) {
+  .modal__big-title {
+    font-size: 20px;
+    max-width: 165px;
+  }
+  .modal__content {
+    padding: 0 24px;
+  }
 }

diff --git a/index.html b/index.html
@@ -156,7 +156,7 @@
             </div>
         </div>
     </section>
-    <div class="modal" id="ops-modal">
+    <div class="modal displayed visible" id="ops-modal">
         <div class="container modal__container">
             <div class="modal__hero">
                 <svg class="modal__close" width="16" height="16" viewBox="0 0 16 16" fill="none" xmlns="http://www.w3.org/2000/svg">

diff --git a/sass/_prizes.sass b/sass/_prizes.sass
@@ -148,6 +148,8 @@
             flex-basis: 50%
         &__hero
             margin-bottom: 100px
+            background: url('../img/frame-mobile.png') no-repeat
+            background-size: 100% 100%
 
 @media screen and (max-width: 600px)
     .prizes
